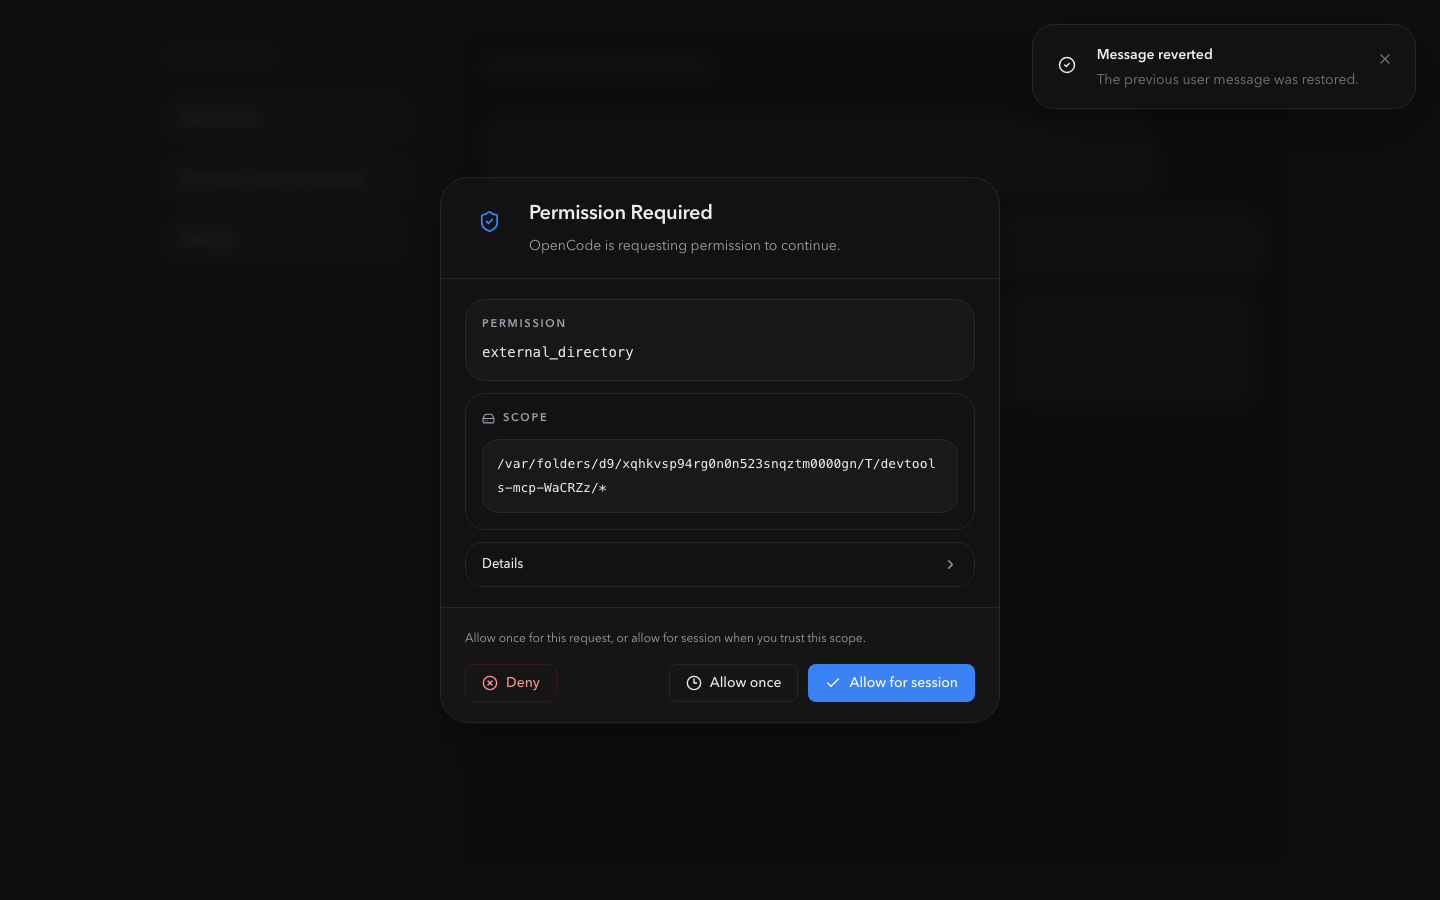
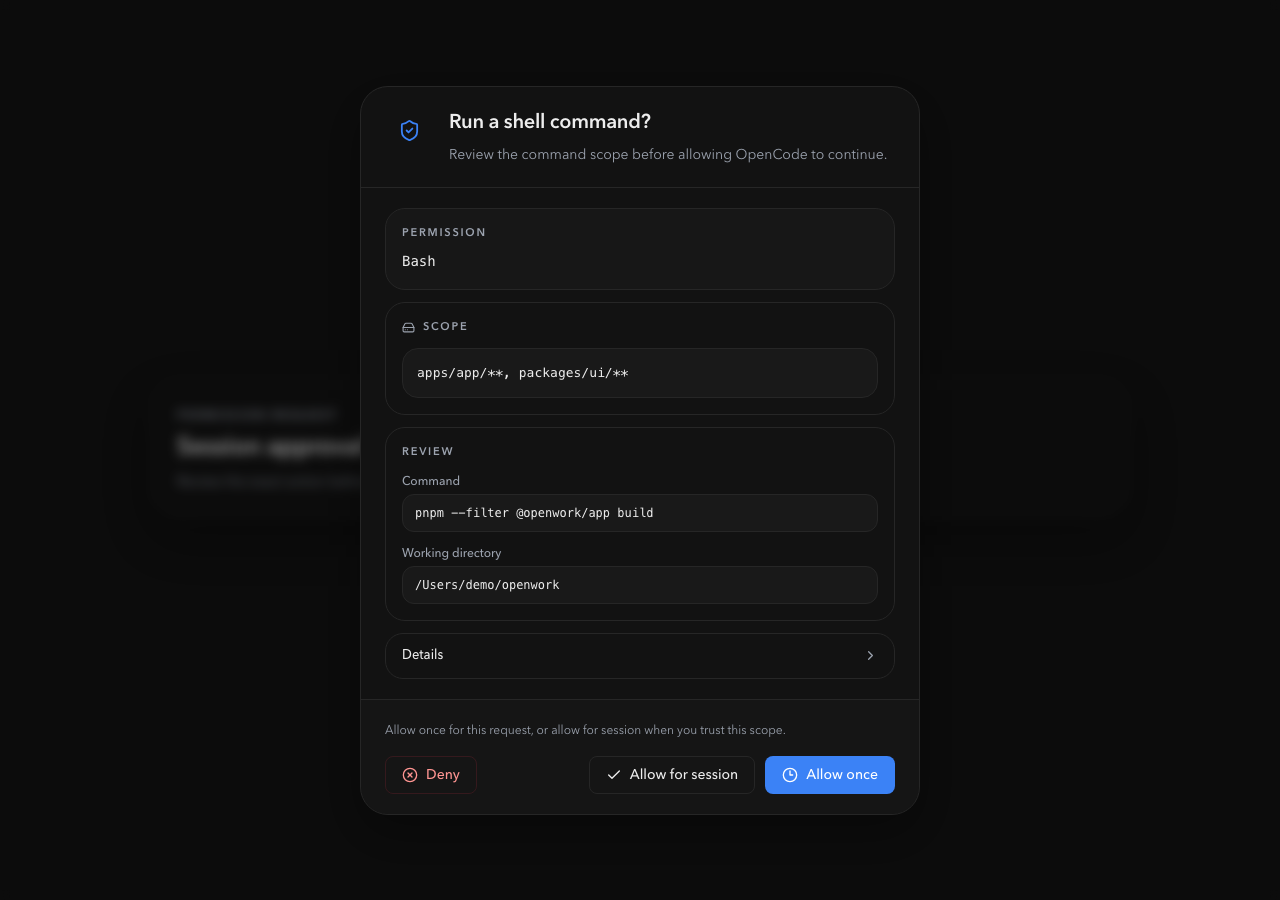
Clarify permission approval risks

diff --git a/apps/app/src/react-app/domains/session/chat/permission-approval-modal.tsx b/apps/app/src/react-app/domains/session/chat/permission-approval-modal.tsx
@@ -16,6 +16,12 @@ type PermissionPresentation = {
   note: string | null;
 };
 
+type PermissionDetail = {
+  label: string;
+  value: string;
+  multiline?: boolean;
+};
+
 type PermissionApprovalModalProps = {
   permission: PendingPermission;
   busy?: boolean;
@@ -23,6 +29,89 @@ type PermissionApprovalModalProps = {
   respondPermissionAndRemember?: (requestID: string, reply: "once" | "always" | "reject") => void;
   safeStringify?: (value: unknown) => string;
 };
+
+const metadataDetailKeys: Array<{ key: string; labelKey: string; multiline?: boolean }> = [
+  { key: "command", labelKey: "session.permission_detail_command", multiline: true },
+  { key: "cwd", labelKey: "session.permission_detail_cwd" },
+  { key: "filepath", labelKey: "session.permission_detail_file" },
+  { key: "filePath", labelKey: "session.permission_detail_file" },
+  { key: "path", labelKey: "session.permission_detail_path" },
+  { key: "target", labelKey: "session.permission_detail_target" },
+  { key: "url", labelKey: "session.permission_detail_url" },
+  { key: "diff", labelKey: "session.permission_detail_diff", multiline: true },
+];
+
+function readablePermissionLabel(permission: string): string {
+  if (permission === "bash") return "Bash";
+  if (permission === "edit") return t("session.permission_kind_edit");
+  if (permission === "read") return t("session.permission_kind_read");
+  if (permission === "external_directory") return t("session.permission_kind_external_directory");
+  if (permission === "task") return t("session.permission_kind_task");
+  if (permission === "todowrite") return t("session.permission_kind_todowrite");
+  if (permission === "question") return t("session.permission_kind_question");
+  if (permission === "skill") return t("session.permission_kind_skill");
+  return permission;
+}
+
+function permissionCopy(permission: string): Pick<PermissionPresentation, "title" | "message"> {
+  if (permission === "bash") {
+    return {
+      title: t("session.permission_title_bash"),
+      message: t("session.permission_message_bash"),
+    };
+  }
+  if (permission === "edit") {
+    return {
+      title: t("session.permission_title_edit"),
+      message: t("session.permission_message_edit"),
+    };
+  }
+  if (permission === "read") {
+    return {
+      title: t("session.permission_title_read"),
+      message: t("session.permission_message_read"),
+    };
+  }
+  if (permission === "external_directory") {
+    return {
+      title: t("session.permission_title_external_directory"),
+      message: t("session.permission_message_external_directory"),
+    };
+  }
+  if (permission === "task") {
+    return {
+      title: t("session.permission_title_task"),
+      message: t("session.permission_message_task"),
+    };
+  }
+  return {
+    title: t("session.permission_title_generic", undefined, { permission }),
+    message: t("session.permission_message"),
+  };
+}
+
+function metadataValue(value: unknown): string | null {
+  if (typeof value === "string") return value.trim() || null;
+  if (typeof value === "number" || typeof value === "boolean") return String(value);
+  return null;
+}
+
+export function permissionDetailRows(metadata: Record<string, unknown>): PermissionDetail[] {
+  const seen = new Set<string>();
+  const rows: PermissionDetail[] = [];
+  for (const item of metadataDetailKeys) {
+    if (seen.has(item.labelKey)) continue;
+    const value = metadataValue(metadata[item.key]);
+    if (!value) continue;
+    seen.add(item.labelKey);
+    rows.push({
+      label: t(item.labelKey),
+      value,
+      multiline: item.multiline,
+    });
+  }
+  return rows;
+}
 
 function describePermissionRequest(permission: PendingPermission): PermissionPresentation {
   const patterns = permission.patterns.filter((pattern) => pattern.trim().length > 0);
@@ -43,10 +132,11 @@ function describePermissionRequest(permission: PendingPermission): PermissionPre
     };
   }
 
+  const copy = permissionCopy(permission.permission);
   return {
-    title: t("session.permission_required"),
-    message: t("session.permission_message"),
-    permissionLabel: permission.permission,
+    title: copy.title,
+    message: copy.message,
+    permissionLabel: readablePermissionLabel(permission.permission),
     scopeLabel: t("session.scope_label"),
     scopeValue: patterns.join(", ") || t("session.permission_scope_empty"),
     isDoomLoop: false,
@@ -61,6 +151,7 @@ export function PermissionApprovalModal(props: PermissionApprovalModalProps) {
       ? props.permission.metadata
       : {};
   const hasMetadata = Object.keys(metadata).length > 0;
+  const detailRows = permissionDetailRows(metadata);
   const Icon = presentation.isDoomLoop ? RefreshCcw : ShieldCheck;
   const iconClass = presentation.isDoomLoop
     ? "bg-amber-3/30 text-amber-11"
@@ -115,6 +206,28 @@ export function PermissionApprovalModal(props: PermissionApprovalModalProps) {
             </div>
           </div>
 
+          {detailRows.length > 0 ? (
+            <div className="rounded-[20px] border border-dls-border bg-dls-surface p-4">
+              <div className="text-[11px] font-semibold uppercase tracking-[0.16em] text-dls-secondary">
+                {t("session.permission_review_label")}
+              </div>
+              <div className="mt-3 space-y-3">
+                {detailRows.map((row) => (
+                  <div key={row.label}>
+                    <div className="text-[12px] font-medium text-dls-secondary">{row.label}</div>
+                    <div
+                      className={`mt-1 rounded-xl border border-dls-border bg-dls-hover/55 px-3 py-2 font-mono text-[12px] leading-5 text-dls-text ${
+                        row.multiline ? "max-h-44 overflow-auto whitespace-pre-wrap" : "break-all"
+                      }`}
+                    >
+                      {row.value}
+                    </div>
+                  </div>
+                ))}
+              </div>
+            </div>
+          ) : null}
+
           {hasMetadata ? (
             <details className="group rounded-[18px] border border-dls-border bg-dls-surface px-4 py-3">
               <summary className="flex cursor-pointer list-none items-center justify-between gap-3 text-[13px] font-medium text-dls-text">
@@ -145,20 +258,21 @@ export function PermissionApprovalModal(props: PermissionApprovalModalProps) {
             <Button
               variant="outline"
               className="rounded-full bg-dls-surface"
-              onClick={() => props.respondPermission?.(props.permission.id, "once")}
-              disabled={props.busy || !props.respondPermission}
-            >
-              <Clock3 size={16} />
-              {t("session.allow_once")}
-            </Button>
-            <Button
-              variant="primary"
-              className="rounded-full"
               onClick={() => props.respondPermissionAndRemember?.(props.permission.id, "always")}
               disabled={props.busy || !props.respondPermissionAndRemember}
             >
               <Check size={16} />
               {t("session.allow_for_session")}
+            </Button>
+            <Button
+              variant="primary"
+              className="rounded-full"
+              autoFocus
+              onClick={() => props.respondPermission?.(props.permission.id, "once")}
+              disabled={props.busy || !props.respondPermission}
+            >
+              <Clock3 size={16} />
+              {t("session.allow_once")}
             </Button>
           </div>
         </div>

diff --git a/apps/app/src/i18n/locales/ja.ts b/apps/app/src/i18n/locales/ja.ts
@@ -1087,9 +1087,35 @@ export default {
   "session.palette_title_actions": "クイックアクション",
   "session.palette_title_sessions": "セッションを検索",
   "session.permission_label": "権限",
+  "session.permission_detail_command": "コマンド",
+  "session.permission_detail_cwd": "作業ディレクトリ",
+  "session.permission_detail_diff": "差分",
+  "session.permission_detail_file": "ファイル",
+  "session.permission_detail_path": "パス",
+  "session.permission_detail_target": "対象",
+  "session.permission_detail_url": "URL",
+  "session.permission_kind_edit": "ファイル編集",
+  "session.permission_kind_external_directory": "外部ディレクトリ",
+  "session.permission_kind_question": "質問",
+  "session.permission_kind_read": "ファイル読み取り",
+  "session.permission_kind_skill": "スキル",
+  "session.permission_kind_task": "サブタスク",
+  "session.permission_kind_todowrite": "Todo書き込み",
   "session.permission_message": "OpenCodeが続行するために許可を求めています。",
+  "session.permission_message_bash": "OpenCodeの続行を許可する前に、コマンドのスコープを確認してください。",
+  "session.permission_message_edit": "OpenCodeに変更を許可する前に、ファイルと差分を確認してください。",
+  "session.permission_message_external_directory": "ワークスペース外へのアクセスを許可する前に、フォルダを確認してください。",
+  "session.permission_message_read": "アクセスを許可する前に、要求されたファイルスコープを確認してください。",
+  "session.permission_message_task": "開始を許可する前に、要求されたサブタスクを確認してください。",
   "session.permission_required": "権限が必要です",
+  "session.permission_review_label": "確認",
   "session.permission_scope_empty": "具体的なスコープはありません。",
+  "session.permission_title_bash": "シェルコマンドを実行しますか？",
+  "session.permission_title_edit": "ファイルを変更しますか？",
+  "session.permission_title_external_directory": "外部フォルダにアクセスしますか？",
+  "session.permission_title_generic": "{permission}を承認しますか？",
+  "session.permission_title_read": "ファイルを読み取りますか？",
+  "session.permission_title_task": "サブタスクを開始しますか？",
   "session.permission_decision_hint": "このリクエストだけなら一度だけ許可し、このスコープを信頼できる場合はセッション中許可してください。",
   "session.phase_responding": "応答中",
   "session.phase_retrying": "再試行中",

diff --git a/apps/app/src/i18n/locales/en.ts b/apps/app/src/i18n/locales/en.ts
@@ -1110,9 +1110,35 @@ export default {
   "session.palette_title_actions": "Quick actions",
   "session.palette_title_sessions": "Search sessions",
   "session.permission_label": "Permission",
+  "session.permission_detail_command": "Command",
+  "session.permission_detail_cwd": "Working directory",
+  "session.permission_detail_diff": "Diff",
+  "session.permission_detail_file": "File",
+  "session.permission_detail_path": "Path",
+  "session.permission_detail_target": "Target",
+  "session.permission_detail_url": "URL",
+  "session.permission_kind_edit": "File edit",
+  "session.permission_kind_external_directory": "External directory",
+  "session.permission_kind_question": "Question",
+  "session.permission_kind_read": "File read",
+  "session.permission_kind_skill": "Skill",
+  "session.permission_kind_task": "Subtask",
+  "session.permission_kind_todowrite": "Todo write",
   "session.permission_message": "OpenCode is requesting permission to continue.",
+  "session.permission_message_bash": "Review the command scope before allowing OpenCode to continue.",
+  "session.permission_message_edit": "Review the file and diff before allowing OpenCode to make changes.",
+  "session.permission_message_external_directory": "Review the folder before allowing access outside the workspace.",
+  "session.permission_message_read": "Review the requested file scope before allowing access.",
+  "session.permission_message_task": "Review the requested subtask before allowing it to start.",
   "session.permission_required": "Permission Required",
+  "session.permission_review_label": "Review",
   "session.permission_scope_empty": "No specific scope provided.",
+  "session.permission_title_bash": "Run a shell command?",
+  "session.permission_title_edit": "Modify files?",
+  "session.permission_title_external_directory": "Access an external folder?",
+  "session.permission_title_generic": "Approve {permission}?",
+  "session.permission_title_read": "Read files?",
+  "session.permission_title_task": "Start a subtask?",
   "session.permission_decision_hint": "Allow once for this request, or allow for session when you trust this scope.",
   "session.phase_responding": "Responding",
   "session.phase_retrying": "Retrying",

diff --git a/apps/app/src/i18n/locales/zh.ts b/apps/app/src/i18n/locales/zh.ts
@@ -1091,9 +1091,35 @@ export default {
   "session.palette_title_actions": "快捷操作",
   "session.palette_title_sessions": "搜索会话",
   "session.permission_label": "权限",
+  "session.permission_detail_command": "命令",
+  "session.permission_detail_cwd": "工作目录",
+  "session.permission_detail_diff": "差异",
+  "session.permission_detail_file": "文件",
+  "session.permission_detail_path": "路径",
+  "session.permission_detail_target": "目标",
+  "session.permission_detail_url": "URL",
+  "session.permission_kind_edit": "文件编辑",
+  "session.permission_kind_external_directory": "外部目录",
+  "session.permission_kind_question": "问题",
+  "session.permission_kind_read": "文件读取",
+  "session.permission_kind_skill": "技能",
+  "session.permission_kind_task": "子任务",
+  "session.permission_kind_todowrite": "Todo写入",
   "session.permission_message": "OpenCode正在请求权限以继续。",
+  "session.permission_message_bash": "允许OpenCode继续前，请先检查命令影响范围。",
+  "session.permission_message_edit": "允许OpenCode修改前，请先检查文件和差异。",
+  "session.permission_message_external_directory": "允许访问工作区外部前，请先检查目标文件夹。",
+  "session.permission_message_read": "允许访问前，请先检查请求的文件范围。",
+  "session.permission_message_task": "允许启动前，请先检查请求的子任务。",
   "session.permission_required": "需要权限",
+  "session.permission_review_label": "检查",
   "session.permission_scope_empty": "未提供具体范围。",
+  "session.permission_title_bash": "运行 shell 命令？",
+  "session.permission_title_edit": "修改文件？",
+  "session.permission_title_external_directory": "访问外部文件夹？",
+  "session.permission_title_generic": "批准 {permission}？",
+  "session.permission_title_read": "读取文件？",
+  "session.permission_title_task": "启动子任务？",
   "session.permission_decision_hint": "仅信任本次请求时选择允许一次；信任这个范围时可在会话期间允许。",
   "session.phase_responding": "回复中",
   "session.phase_retrying": "重试中",

diff --git a/apps/app/tests/permission-approval-modal.test.ts b/apps/app/tests/permission-approval-modal.test.ts
@@ -1,0 +1,31 @@
+import { describe, expect, test } from "bun:test";
+
+import { permissionDetailRows } from "../src/react-app/domains/session/chat/permission-approval-modal";
+
+describe("permission approval modal helpers", () => {
+  test("surfaces risk-bearing metadata as review rows", () => {
+    expect(
+      permissionDetailRows({
+        command: "rm -rf dist",
+        cwd: "/workspace/project",
+        filepath: "/workspace/project/src/app.ts",
+        diff: "-old\n+new",
+        output: "not shown before approval",
+      }).map((row) => [row.label, row.value]),
+    ).toEqual([
+      ["Command", "rm -rf dist"],
+      ["Working directory", "/workspace/project"],
+      ["File", "/workspace/project/src/app.ts"],
+      ["Diff", "-old\n+new"],
+    ]);
+  });
+
+  test("deduplicates alternate file metadata keys", () => {
+    expect(
+      permissionDetailRows({
+        filepath: "/workspace/project/a.ts",
+        filePath: "/workspace/project/b.ts",
+      }).map((row) => [row.label, row.value]),
+    ).toEqual([["File", "/workspace/project/a.ts"]]);
+  });
+});
